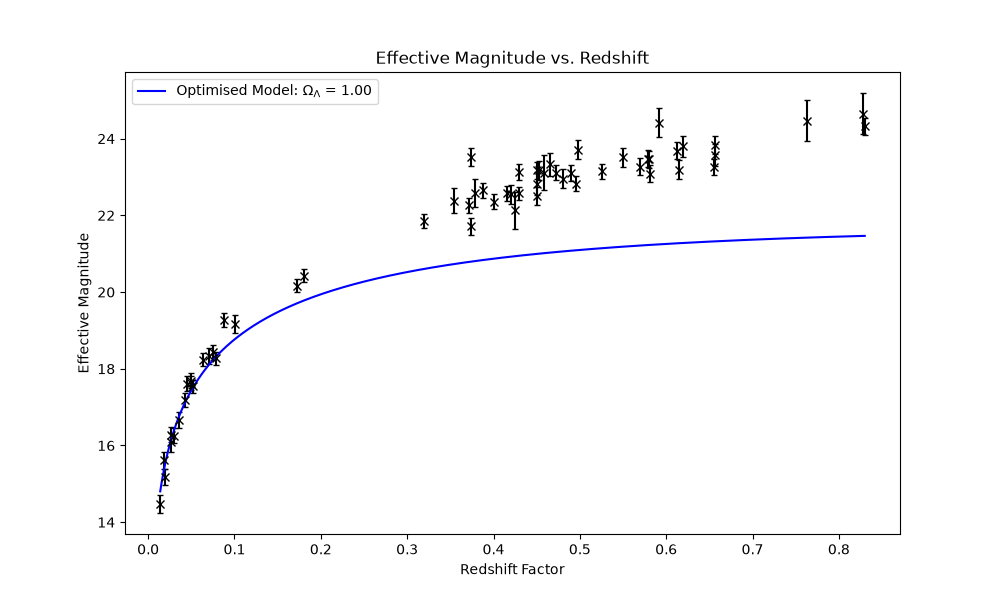
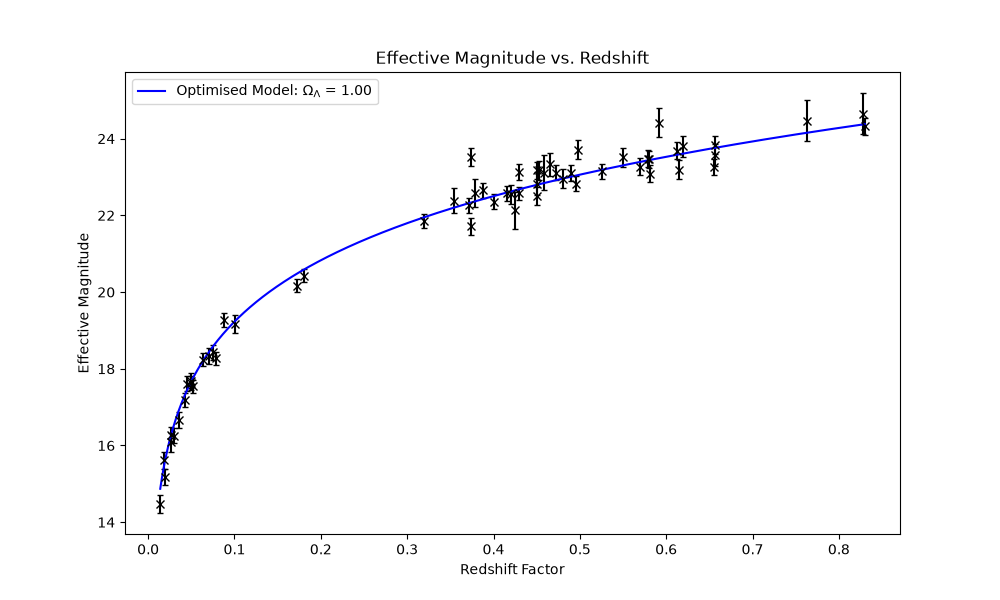
Improve model for omega_Lambda
Still not correct. The hunt continues.

diff --git a/milestone_project.py b/milestone_project.py
@@ -32,7 +32,8 @@ def calculate_distance_small_z(redshifts: np.ndarray) -> np.ndarray:
 
 def distance_intergrand(scale_factors: np.ndarray, omega_Lambda: float) -> np.ndarray:
     omega_m = 1 - omega_Lambda
-    return 1 / (scale_factors * np.sqrt(omega_m / scale_factors ** 3 + omega_Lambda))
+    operand = omega_m * scale_factors + omega_Lambda * scale_factors ** 4 + (1 - omega_m - omega_Lambda) * scale_factors ** 2
+    return 1 / (np.sqrt(operand))
     
 
 def calculate_distance(redshifts: np.ndarray, omega_Lambda: float) -> np.ndarray:
@@ -56,7 +57,7 @@ def small_z_model_function(redshifts: np.ndarray, *params: np.ndarray) -> np.nda
 
 def all_z_model_function(redshifts: np.ndarray, omega_Lambda: float, L_lambda_peak: float) -> np.ndarray:
     distances = calculate_distance(redshifts, omega_Lambda=omega_Lambda)  # cm
-    fluxes = L_lambda_peak / (4 * np.pi * distances ** 2)
+    fluxes = L_lambda_peak / (4 * np.pi * distances ** 2 * (1+redshifts)**2)
     m_effectives = -2.5 * np.log10((1 + redshifts) * fluxes / F_LAMBDA_0)
     return m_effectives
 
@@ -94,7 +95,7 @@ def plot_all_z_model(redshifts: np.ndarray, m_effectives: np.ndarray, errs: np.n
 
     smooth_x = np.linspace(np.min(redshifts), np.max(redshifts), 1000)
     plt.plot(smooth_x, 
-                funct(smooth_x ,omega_Lambda=0, L_lambda_peak=L_lambda_peak), 
+                funct(smooth_x ,omega_Lambda, L_lambda_peak), 
                 color='b',
                 label = rf"Optimised Model: $\Omega_{{\mathrm{{\Lambda}}}}$ = {omega_Lambda:.2f}")
 
